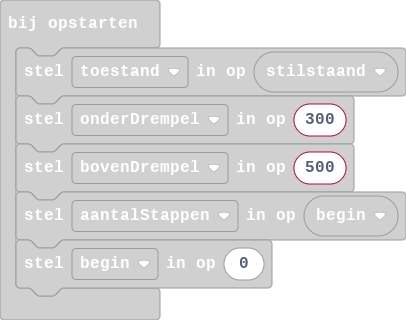
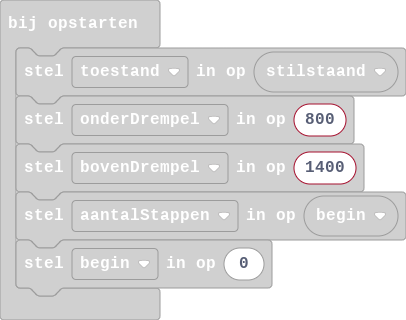
main.blocks, main.ts bijwerken

Changed region(s): [[0.8276, 0.4375, 0.9163, 0.625], [0.7389, 0.5, 0.798, 0.5625], [0.7389, 0.3438, 0.7685, 0.375]]

diff --git a/main.ts b/main.ts
@@ -18,8 +18,8 @@ let begin = 0
 let aantalStappen = 0
 let stilstaand = 0
 let toestand = stilstaand
-let onderDrempel = 300
-let bovenDrempel = 500
+let onderDrempel = 800
+let bovenDrempel = 1400
 aantalStappen = begin
 begin = 0
 basic.forever(function () {
